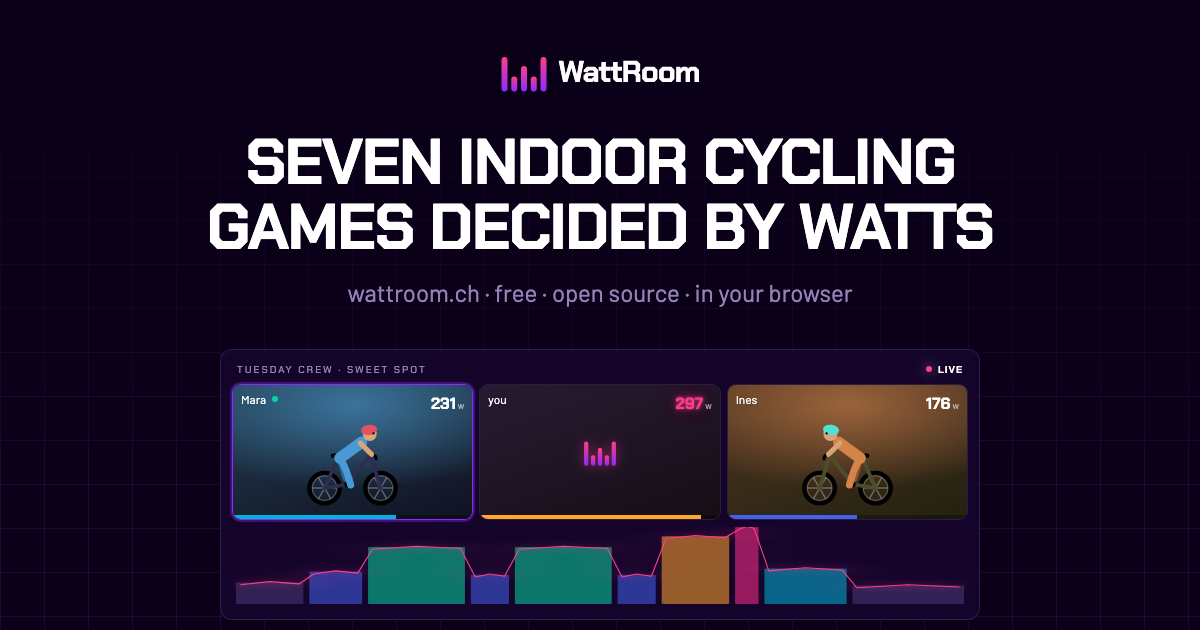
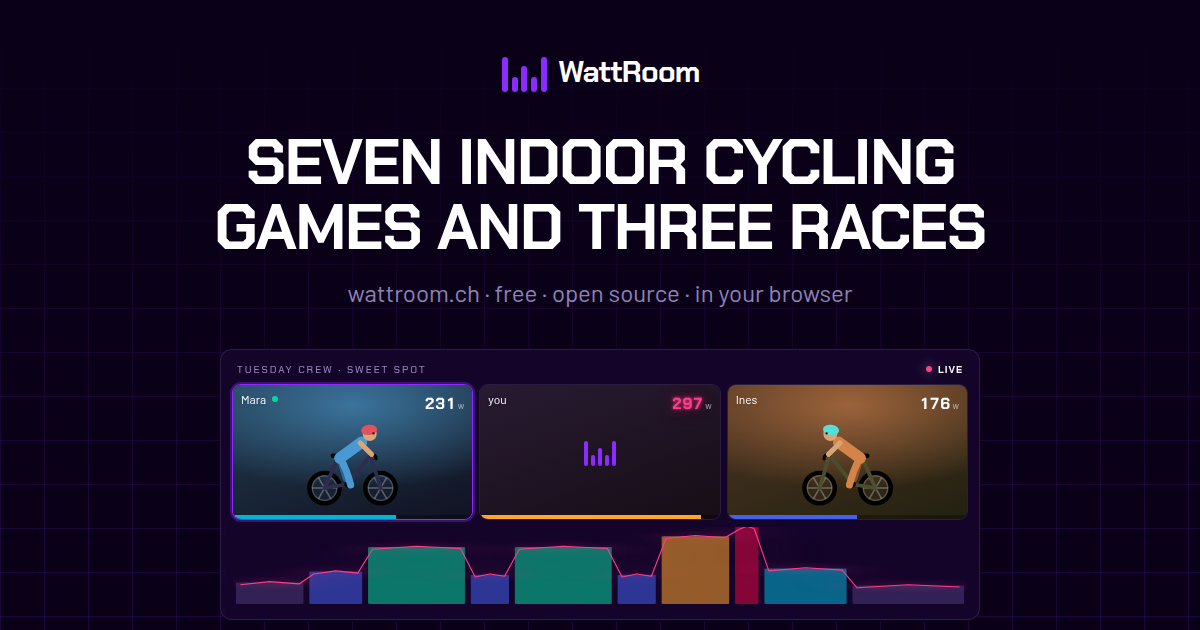
docs(site): races are game modes too
/game-modes lists the three races beside the seven games: W/kg, a real
bunch, results per Category. /de and /zwift-alternative lose the pitch
from before the world ("not in a video game", "Kein Windschatten") and
lead with your roads in 3D and races. "No drafting" becomes "No
power-ups. Games: watts alone. Races: a real bunch." in seo.ts and
rivals.ts. The /game-modes share card is redrawn for its new title.

Closes #3177

diff --git a/web/src/routes/(site)/de/+page.svelte b/web/src/routes/(site)/de/+page.svelte
@@ -22,8 +22,8 @@
 			text: 'Chrome oder Edge verbindet sich per Bluetooth mit deinem Smart Trainer. Nichts installieren. Kamera nach Lust, Mikrofon mit einem Tipp.',
 		},
 		{
-			titel: 'Gemeinsam ein Workout fahren',
-			text: 'Wer im Kanal ist, startet ein Workout. Jede Rolle hält die Watt ihres Fahrers, die Zeitleiste läuft für alle gleichzeitig — und ihr redet die ganze Zeit.',
+			titel: 'Session starten',
+			text: 'Wer im Sprachkanal ist, startet eine Session: eine freie Fahrt auf einer Strecke, ein Workout, ein Rennen oder ein Spiel. Alle fahren gleichzeitig — und ihr redet die ganze Zeit.',
 		},
 	];
 
@@ -45,6 +45,14 @@
 			a: 'Genau dafür ist WattRoom da. Jede Vorgabe ist ein Prozentsatz der eigenen FTP: Wer 180 W und wer 320 W FTP hat, fährt dasselbe Workout nebeneinander, und es tut beiden gleich weh.',
 		},
 		{
+			q: 'Woher kommen die Strecken?',
+			a: 'Von dir. Importiere eine GPX-, TCX- oder FIT-Datei einer Strecke, die du kennst, und WattRoom liest daraus die Steigungen und Anstiege. Auf jedem Gerät wählst du: die Strecke in 3D oder flach als Höhenprofil.',
+		},
+		{
+			q: 'Gibt es Rennen?',
+			a: 'Ja, innerhalb deiner Crew. Strecke wählen, «Race it» tippen und Race, Last Light oder Wheelrace fahren. Das Tempo kommt aus deinen W/kg, am Hinterrad fährst du im Windschatten wie in einem echten Feld, und die Rangliste gibt es pro Kategorie, D bis A. Einen öffentlichen Rennkalender gibt es nicht.',
+		},
+		{
 			q: 'Kann ich meine Zwift-Workouts mitnehmen?',
 			a: 'Ja: .zwo- und .erg-Dateien lassen sich im Workout-Editor importieren.',
 		},
@@ -61,7 +69,7 @@
 	<PageHero
 		eyebrow="Die kostenlose Zwift-Alternative"
 		title="Rollentraining mit Freunden statt allein"
-		lede="Eine Crew, ein strukturiertes Workout, jede Rolle auf die FTP ihres Fahrers — und ein Sprachkanal, damit ihr gemeinsam leiden könnt. Ohne Abo, ohne Installation, direkt im Browser. Deine Watt sind das Spiel."
+		lede="Fahrt eure eigenen Strecken in einer 3D-Welt, mit der ganzen Crew darauf, oder ein strukturiertes Workout, jede Rolle auf die FTP ihres Fahrers. Der Sprachkanal ist eingebaut, damit ihr gemeinsam leiden könnt. Ohne Abo, direkt im Browser."
 	>
 		<a href="/login" class="btn btn-primary btn-lg">Crew gründen</a>
 		<a href="/" class="btn btn-secondary btn-lg" hreflang="en">English</a>
@@ -69,10 +77,12 @@
 
 	<section class="mx-auto w-full max-w-5xl px-4 sm:px-6">
 		<Screen
-			name="session"
+			name="world-crew"
 			eager
-			alt="Eine laufende WattRoom-Session: Watt, W/kg und Trittfrequenz jedes Fahrers neben der gemeinsamen Intervall-Zeitleiste"
-			caption="Eine Zeitleiste, die Zahlen aller Fahrer, und der Sprachkanal, in dem ihr fahrt. (Die App ist auf Englisch.)"
+			alt="Zwei Fahrer einer Crew nebeneinander in einer Session auf einer Bergstrasse in der 3D-Welt, die Uhr des Workouts oben, der Velocomputer links und die Watt pro Kilo der Fahrer rechts"
+			width={1440}
+			height={900}
+			caption="Eure Strecke in 3D, die Zahlen aller Fahrer, und der Sprachkanal, in dem ihr fahrt. (Die App ist auf Englisch.)"
 		/>
 	</section>
 
@@ -109,6 +119,10 @@
 					zuerst einrichten muss.
 				</li>
 				<li>
+					Eigene Strecken in 3D: GPX, TCX oder FIT importieren und mit der Crew
+					darauf fahren.
+				</li>
+				<li>
 					Ein gemeinsames Workout im ERG-Modus, jede Vorgabe auf deine eigene
 					FTP skaliert.
 				</li>
@@ -117,8 +131,8 @@
 					synchron.
 				</li>
 				<li>
-					Sieben Spielmodi, die nur über Watt entschieden werden — kein
-					Windschatten, keine Power-ups.
+					Keine Power-ups. Spiele: nur Watt. Rennen: ein echtes Feld, mit
+					Windschatten.
 				</li>
 				<li>Jede Fahrt zählt: .fit-Export und Upload zu Strava.</li>
 				<li>Open Source, kostenlos, gebaut in der Schweiz.</li>
@@ -133,11 +147,20 @@
 	<section class="mx-auto mt-24 w-full max-w-6xl px-4 sm:px-6">
 		<SectionHead
 			center
-			eyebrow="Sieben Spielmodi"
-			title="Kein Windschatten. Nur Watt."
-			lede="Jedes Spiel misst an der eigenen FTP — so kann auch der schwächste Motor der Crew gewinnen. (Die Namen der Modi sind englisch, wie die App.)"
+			eyebrow="Rennen und Spiele"
+			title="Fahrt Rennen auf euren Strecken, oder spielt nur mit Watt"
+			lede="Strecke in der Session-Auswahl wählen, «Race it» tippen und Race, Last Light oder Wheelrace wählen: ein Rennen nach W/kg, mit Rangliste pro Kategorie am Schluss. Oder eines von sieben Spielen, die an der eigenen FTP messen — so kann auch der schwächste Motor der Crew gewinnen. (Die Namen sind englisch, wie die App.)"
 		/>
-		<div class="mt-10" lang="en">
+		<div class="mt-10">
+			<Screen
+				name="race-picker"
+				alt="Die Session-Auswahl mit einer gewählten Strecke und ihren Rennen: Race, Last Light und Wheelrace"
+				width={1440}
+				height={900}
+				caption="«Race it», direkt in der Session-Auswahl."
+			/>
+		</div>
+		<div class="mt-8" lang="en">
 			<GameModeCards />
 		</div>
 	</section>

diff --git a/web/src/routes/(site)/game-modes/+page.svelte b/web/src/routes/(site)/game-modes/+page.svelte
@@ -7,14 +7,16 @@
 	import SectionHead from '$lib/site/SectionHead.svelte';
 	import Seo from '$lib/site/Seo.svelte';
 	import SprintGame from '$lib/site/SprintGame.svelte';
+	import { RACE_LIST } from '$lib/site/game-modes';
 	import { GAME_MODES } from '$lib/site/seo';
 
-	// The seven modes, with their rules (#2995). Unique content — nobody else
-	// has Watt Golf — and every number is docs/SPEC.md's, via game-modes.ts.
+	// The seven games and the three races, with their rules (#2995, #3177).
+	// Unique content — nobody else has Watt Golf — and every number is
+	// docs/SPEC.md's, via game-modes.ts.
 	const faq = [
 		{
 			q: 'Can a weaker rider really win?',
-			a: 'Yes. Every mode measures against each rider’s own FTP — Backyard Ramp’s band, Floor is Lava’s zones, Watt Golf’s holes — so it is who rides their own numbers best, not whose numbers are biggest. Sprints score watts per kilo.',
+			a: 'Yes. Every game measures against each rider’s own FTP — Backyard Ramp’s band, Floor is Lava’s zones, Watt Golf’s holes — so it is who rides their own numbers best, not whose numbers are biggest. Sprints score watts per kilo.',
 		},
 		{
 			q: 'What happens when I am eliminated?',
@@ -23,6 +25,10 @@
 		{
 			q: 'What if my trainer disconnects mid-game?',
 			a: 'Elimination modes give you 30 seconds to reconnect, and what you pedalled meanwhile is kept and counted when you are back.',
+		},
+		{
+			q: 'Who wins a race?',
+			a: 'The first over the line in their Category, or in Last Light the farthest when the clock runs out. Speed comes from your watts per kilo, so a light climber and a heavy rouleur ride the same physics. Results are per Category, D to A, on the closing card, so you are placed among riders of your own fitness. A race needs at least two riders, and a weight changed in the last 14 days rides unranked.',
 		},
 		{
 			q: 'Do the games replace workouts?',
@@ -35,12 +41,41 @@
 
 <PageHero
 	eyebrow="Indoor cycling game modes"
-	title="Seven games where your watts are the whole game"
-	lede="No drafting, no power-ups. Every WattRoom game is decided by power alone and measured against each rider’s own FTP, so the smallest engine in the crew can win. Played in your crew’s voice channel, with everyone yelling."
+	title="Seven games and three races, and no power-ups"
+	lede="Games are decided by watts alone, measured against each rider’s own FTP, so the smallest engine in the crew can win. Races run on one of your roads, on W/kg, in a real bunch, with results per Category. All of it in your crew’s voice channel, with everyone yelling."
 />
 
 <section class="mx-auto w-full max-w-6xl px-4 sm:px-6">
 	<GameModeCards full />
+</section>
+
+<section
+	id="races"
+	class="mx-auto mt-24 w-full max-w-6xl scroll-mt-24 px-4 sm:px-6"
+>
+	<SectionHead
+		eyebrow="Races on a road"
+		title="Race your roads in a real bunch"
+		lede="Pick one of your roads in the session picker and tap Race it. A 10-second countdown, three minutes of neutral zone at 0 %, then the klaxon at km 0. The wheels ahead shelter you, up to half the air, and results are per Category, D to A."
+	/>
+	<div class="mt-8 grid items-start gap-8 lg:grid-cols-2">
+		<ul class="flex flex-col gap-3">
+			{#each RACE_LIST as race (race.slug)}
+				<li id={race.slug} class="panel panel-lg scroll-mt-24">
+					<h2 class="font-display text-xl font-bold">{race.name}</h2>
+					<p class="text-muted mt-1 text-sm">{race.line}</p>
+					<p class="mt-3 text-sm leading-relaxed">{race.rules}</p>
+				</li>
+			{/each}
+		</ul>
+		<Screen
+			name="race-picker"
+			alt="The session picker with a road picked and its races offered: Race, Last Light and Wheelrace"
+			width={1440}
+			height={900}
+			caption="Race it, from the session picker."
+		/>
+	</div>
 </section>
 
 <section
@@ -74,9 +109,10 @@
 	<SectionHead title="Why games decided by watts?" />
 	<div class="text-muted mt-5 flex flex-col gap-4 leading-relaxed">
 		<p>
-			A game about position is a game about drafting, route choice and who is
-			where. WattRoom’s games are about the thing you are actually training —
-			how much power you can hold, how precisely, and for how long.
+			A race is about position: whose wheel you sit on, when you go, who is
+			where at the line. The races are for that. The games are about the thing
+			you are actually training — how much power you can hold, how precisely,
+			and for how long.
 		</p>
 		<p>
 			And because every target is a share of your own FTP, the games work for a

diff --git a/web/src/lib/site/seo.ts b/web/src/lib/site/seo.ts
@@ -48,14 +48,14 @@ export const ZWIFT_ALTERNATIVE: SitePage = {
 	path: '/zwift-alternative',
 	title: 'A free Zwift alternative for riding with friends — WattRoom',
 	description:
-		'No subscription, no install: a crew space with voice, synced ERG workouts on everyone’s own FTP, and games decided by watts. Open source.',
+		'No subscription, no install: a crew space with voice, your own roads in 3D, ERG workouts on everyone’s own FTP, races on W/kg and games. Open source.',
 };
 
 export const GAME_MODES: SitePage = {
 	path: '/game-modes',
-	title: 'Seven indoor cycling games decided by watts — WattRoom',
+	title: 'Seven indoor cycling games and three races — WattRoom',
 	description:
-		'Sprint Roulette, Watt Golf, Backyard Ramp, Floor is Lava and more: group games for smart trainers where your power is the whole game. No drafting, no power-ups.',
+		'Sprint Roulette, Watt Golf, Backyard Ramp and more, decided by watts alone, and races on your own roads on W/kg in a real bunch. No power-ups.',
 };
 
 export const FTP_TEST: SitePage = {
@@ -83,7 +83,7 @@ export const GERMAN: SitePage = {
 	path: '/de',
 	title: 'WattRoom — Rollentraining mit Freunden, kostenlos im Browser',
 	description:
-		'Die kostenlose Zwift-Alternative ohne Abo: ein Workout für die ganze Crew, jede Vorgabe auf deine FTP, mit Sprachkanal. Direkt im Browser, Open Source.',
+		'Die kostenlose Zwift-Alternative ohne Abo: eigene Strecken in 3D, Workouts auf deine FTP, Rennen nach W/kg, mit Sprachkanal. Im Browser, Open Source.',
 	lang: 'de',
 };
 
@@ -168,7 +168,9 @@ export function webApplication(): object {
 		featureList: [
 			'Crews with text and voice channels',
 			'Structured ERG workouts ridden together, each target on the rider’s own FTP',
-			'Seven game modes decided by power',
+			'Your own routes ridden in a 3D world',
+			'Races on your own routes, on W/kg, with results per Category',
+			'Seven games decided by power',
 			'A shared jukebox per voice channel',
 			'Ramp FTP test',
 			'.fit export and Strava upload',

diff --git a/web/src/routes/(site)/zwift-alternative/+page.svelte b/web/src/routes/(site)/zwift-alternative/+page.svelte
@@ -62,7 +62,7 @@
 		},
 		{
 			q: 'Is there racing?',
-			a: 'Not the way Zwift has it: there is no drafting and no public race calendar. There are seven game modes decided by watts alone — sprints, eliminations, Watt Golf — played inside your own crew.',
+			a: 'Yes, inside your crew. Pick one of your roads, tap Race it, and ride a Race, Last Light or Wheelrace on W/kg, in a real bunch where the wheel ahead shelters you. Results are per Category on the closing card. There is no public race calendar, and seven games decided by watts alone — sprints, eliminations, Watt Golf — sit beside the races.',
 		},
 		{
 			q: 'Does my trainer work?',
@@ -79,8 +79,8 @@
 
 <PageHero
 	eyebrow="A free Zwift alternative"
-	title="Ride with your friends, not in a video game"
-	lede="WattRoom is for crews who want to train together: a standing space with text and voice channels, structured ERG workouts ridden in sync with every trainer on its own FTP, and games decided by watts. No subscription, no install."
+	title="Your roads in 3D, your crew in your ear"
+	lede="WattRoom is for crews who want to train together: a standing space with text and voice channels, your own roads ridden in a 3D world, structured ERG workouts with every trainer on its own FTP, races on W/kg and games decided by watts. No subscription, no install."
 />
 
 <section class="mx-auto w-full max-w-6xl px-4 sm:px-6">
@@ -120,9 +120,15 @@
 		<ul
 			class="text-muted mt-5 flex list-disc flex-col gap-2 pl-5 leading-relaxed"
 		>
-			<li>A drafting game: nobody sits on a wheel.</li>
 			<li>
-				A racing scene. Games happen inside your crew, not on a public calendar.
+				An open world. You ride the roads you pick, with your crew on them.
+			</li>
+			<li>
+				A racing scene. Races happen inside your crew, not on a public calendar.
+			</li>
+			<li>
+				A game of power-ups. Games are decided by watts alone, races by W/kg in
+				a real bunch.
 			</li>
 			<li>
 				A coach. There are no adaptive plans; there is a library and an editor.

diff --git a/web/src/lib/site/game-modes.ts b/web/src/lib/site/game-modes.ts
@@ -1,7 +1,7 @@
 /**
- * The seven game modes as the public pages tell them. Every number is
+ * The seven games as the public pages tell them. Every number is
  * docs/SPEC.md's "Game mode parameters" — tune there, then here, never
- * only here.
+ * only here. The races are game modes too, listed below them.
  */
 export type GameMode = {
 	slug: string;
@@ -70,5 +70,33 @@ export const GAME_MODE_LIST: readonly GameMode[] = [
 		rules:
 			'One rider holds 110 % of FTP on the front while the others spin at 55 %, rotating every 60–90 seconds or on the call. The crew’s distance is everyone’s front work added up.',
 		best: 'Crews who ride outside together and miss the paceline.',
+	},
+];
+
+/**
+ * The three races (#3177): game modes on a road, on W/kg, placed per
+ * Category. Every number is docs/spec/races.md's — tune there, then here.
+ */
+export const RACE_LIST: readonly Omit<GameMode, 'best'>[] = [
+	{
+		slug: 'race',
+		name: 'Race',
+		line: 'First over the line wins.',
+		rules:
+			'The whole road, from km 0 to the line. Sit on a wheel to save your legs, attack on the climb, and the first over the line in your Category takes it.',
+	},
+	{
+		slug: 'last-light',
+		name: 'Last Light',
+		line: 'Farthest when the clock runs out.',
+		rules:
+			'A clock of 10, 20 or 30 minutes. Whoever has ridden farthest when it runs out wins, and over the final minute the fog closes in from 3 km to 150 m.',
+	},
+	{
+		slug: 'wheelrace',
+		name: 'Wheelrace',
+		line: 'Head starts, so the whole field meets at the line.',
+		rules:
+			'A handicap race with a par of 15 to 45 minutes. The lower your race FTP, the bigger your head start, so ridden at par, the whole field arrives together. The line closes at par plus 15 %.',
 	},
 ];

diff --git a/web/src/lib/site/rivals.ts b/web/src/lib/site/rivals.ts
@@ -44,7 +44,7 @@ export const OURS = {
 		'Anyone in the voice channel starts any workout; every trainer holds its own rider’s FTP',
 	voice: 'Voice and camera built in, one tap',
 	world:
-		'Routes you import, ridden in 3D with your crew on them, or as their profile; a workout without a road rides on its interval graph',
+		'Routes you import, ridden or raced in 3D with your crew on them, or as their profile; a workout without a road rides on its interval graph',
 	openSource: 'Yes (AGPL), and self-hostable',
 } as const;
 
@@ -70,7 +70,7 @@ export const RIVALS: readonly Rival[] = [
 		pickUs: [
 			'Your crew wants to talk while it rides, without a second app.',
 			'Any workout, started by anyone in the channel, without setting up a Meetup first.',
-			'Games decided by watts alone: no drafting, no power-ups.',
+			'No power-ups. Games: watts alone. Races: a real bunch, on your own roads.',
 			'It costs nothing, runs in a browser tab, and the code is open.',
 		],
 		sources: [

diff --git a/web/src/routes/(site)/+page.svelte b/web/src/routes/(site)/+page.svelte
@@ -268,7 +268,7 @@
 	</div>
 	<p class="mt-6 text-center">
 		<a href="/game-modes" class="btn-link text-sm"
-			>All seven games, and how they play</a
+			>All seven games and three races, and how they play</a
 		>
 	</p>
 </section>
